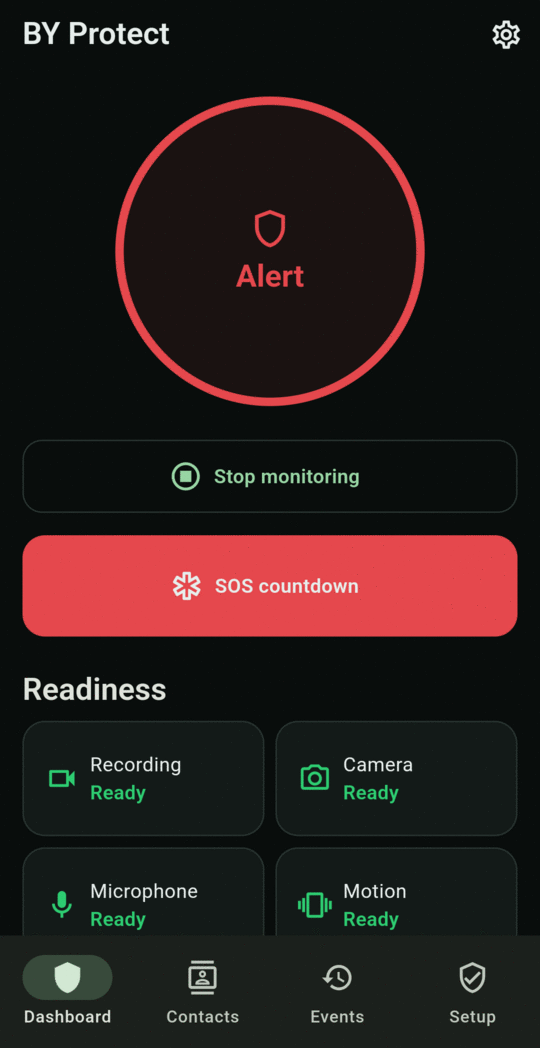
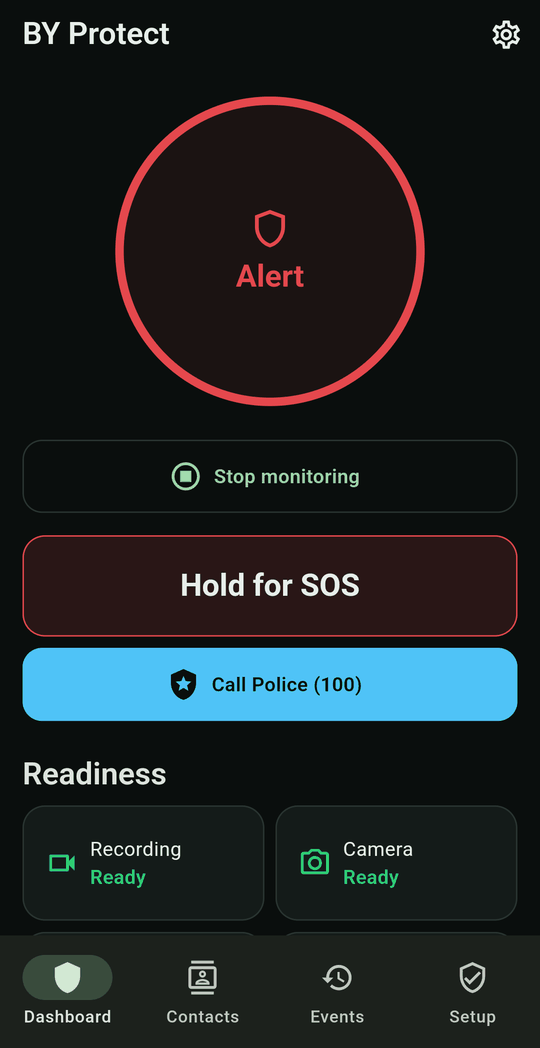
Emergency service contacts, new alert screenshots

Changed region(s): [[0.0296, 0.4885, 0.9778, 0.7634], [0.0889, 0.7939, 0.3556, 0.8855], [0.5333, 0.7939, 0.7704, 0.8855]]

diff --git a/docs/contacts.md b/docs/contacts.md
@@ -1,6 +1,6 @@
 # Emergency contacts
 
-Open **Contacts** from the bottom bar. Each card shows the name, number, preferred action and message preview. Disabled contacts are greyed out and marked **Disabled**.
+Open **Contacts** from the bottom bar. A contact is either a **person** you trust or an **emergency service** such as the police. Each card shows the name, number and what SOS does for them. Disabled contacts are greyed out and marked **Disabled**.
 
 <div class="screens" markdown>
 <figure markdown>
@@ -13,9 +13,9 @@ Open **Contacts** from the bottom bar. Each card shows the name, number, preferr
 </figure>
 </div>
 
-## Add a contact
+## Add a person
 
-Tap **Add contact**, fill in the form and tap **Save contact**. **Name** and **Phone number** are required.
+Tap **Add contact**, keep **Person** selected, fill in the form and tap **Save contact**. **Name** and **Phone number** are required.
 
 | Field | What it does |
 |---|---|
@@ -36,6 +36,43 @@ Tap **Add contact**, fill in the form and tap **Save contact**. **Name** and **P
 </figure>
 </div>
 
+## Add the police or another emergency service
+
+Tap **Add contact** and choose **Emergency service** at the top. Then pick the service:
+
+| Service | Number |
+|---|---|
+| **Police** | 100 |
+| **National emergency** | 112 |
+| **Women in distress** | 1091 |
+| **Women helpline** | 181 |
+| **Ambulance** | 108 |
+| **Local police station** | The station's own phone number, which you type in |
+
+The name and number fill in for you. Tap **Save contact**.
+
+<div class="screens" markdown>
+<figure markdown>
+![Adding the police as an emergency service](assets/screens/contacts-emergency-editor.png){ .screen }
+<figcaption>Emergency service</figcaption>
+</figure>
+<figure markdown>
+![Contact list with the police](assets/screens/contacts-with-police.png){ .screen }
+<figcaption>Police in the list</figcaption>
+</figure>
+</div>
+
+How emergency services are used:
+
+- **They are only called, never texted.** No SOS message or silent alert is ever sent to them, and there is no test message.
+- **They get the SOS call.** SOS makes one call. If an emergency service is enabled, that's the call, instead of your first person. If you add more than one, the highest in the list is used.
+- **You tap Call for 100, 112 and the other short numbers.** Android doesn't let apps call emergency numbers by themselves, so your phone's dialer opens with the number ready. A local police station's full number is called directly if [Call directly during SOS](settings.md#direct-emergency-actions) is on.
+- **Only when you start SOS yourself, unless you choose otherwise.** By default they're called when you start SOS with the button, the notification, the volume buttons or "help me". Turn on **Also call on automatic SOS** to call them for automatic alerts too. Automatic alerts can be false alarms, so think before you turn it on.
+- **A call button appears during SOS.** The Dashboard shows **Call Police (100)** and the SOS notification shows **Call Police**, in case the dialer didn't open by itself.
+
+!!! tip "Let SOS open the dialer from your bag"
+    When the app isn't on screen, Android only lets it open the dialer if you allow **Display over other apps**. Turn it on in **Setup**. See [Grant permissions](getting-started/permissions.md#optional-permissions).
+
 ## The ⋮ menu
 
 Edit
@@ -45,7 +82,7 @@ Disable for SOS / Enable for SOS
 :   Temporarily leave a contact out of alerts without deleting them.
 
 Send test message
-:   Opens your SMS app with this contact's message filled in. Nothing is sent until you press send there.
+:   Opens your SMS app with this contact's message filled in. Nothing is sent until you press send there. Not shown for emergency services.
 
 Remove
 :   Deletes the contact after you confirm.
@@ -53,5 +90,5 @@ Remove
 ## Tips
 
 - Add **at least two** people, in case one can't answer.
-- Only one call is placed per SOS. It goes to the **highest contact in the list** set to **Call** or **SMS and call**. New contacts are added to the bottom, so add the person you most want called first. Alternatively, set the contacts above them to **SMS**.
+- Only one call is placed per SOS. It goes to an enabled emergency service if you have one (see above), otherwise to the **highest person in the list** set to **Call** or **SMS and call**. New contacts are added to the bottom, so add the person you most want called first, or set the contacts above them to **SMS**.
 - Tell your contacts you've added them, and what a BY Protect alert looks like. Show them [What your contacts receive](alerts/messages.md).

diff --git a/docs/sos/during-sos.md b/docs/sos/during-sos.md
@@ -11,7 +11,7 @@ The moment SOS starts:
 4. The last few video clips (default **3** clips of 30 seconds) are **protected** so they aren't overwritten.
 5. Your location is captured.
 6. **Your contacts are texted.** See [What your contacts receive](../alerts/messages.md).
-7. After the **Delay before calling** (default **20 seconds**), the app calls your first callable contact.
+7. After the **Delay before calling** (default **20 seconds**), the app makes **one call**: to your emergency service if you added one, otherwise to your first callable contact. For 100, 112 and other short emergency numbers your dialer opens with the number ready, and you tap **Call**.
 8. The event is saved in Event History, with a list of the actions taken.
 
 <div class="screens" markdown>
@@ -25,6 +25,10 @@ The moment SOS starts:
 </figure>
 </div>
 
-BY Protect doesn't call the emergency services. If you can, call them yourself.
+## Calling the police
+
+If you added the police or another [emergency service](../contacts.md#add-the-police-or-another-emergency-service), a **Call Police (100)** button appears on the Dashboard during SOS, and **Call Police** in the SOS notification. Tap it to open the dialer with the number ready, then tap **Call**.
+
+Android doesn't let apps call emergency numbers by themselves, so you always tap **Call** for 100, 112 and similar numbers. If no emergency service is saved, BY Protect doesn't contact the emergency services; call them yourself if you can.
 
 While SOS is active, more SOS triggers are ignored and automatic detection pauses, so the alarm and vibration can't set off another alert.

diff --git a/docs/limitations.md b/docs/limitations.md
@@ -2,9 +2,17 @@
 
 BY Protect makes it faster and easier to get help, but it can't guarantee your safety. Please read this page before you rely on it.
 
-## It doesn't contact emergency services
+## Emergency services need you to tap Call
 
-BY Protect only texts and calls **the trusted contacts you add**. It never calls the police, an ambulance or any emergency number by itself. If you're in immediate danger, call your local emergency number yourself. Make sure your contacts know what to do when they receive an alert.
+BY Protect texts and calls **the contacts you add**. You can add the police or another [emergency service](contacts.md#add-the-police-or-another-emergency-service), but:
+
+- **Android doesn't let apps call 100, 112 or other emergency numbers by themselves.** During SOS your dialer opens with the number ready, and you have to tap **Call**.
+- **From your bag or with the app closed**, the dialer only opens if you allow **Display over other apps**. Otherwise use the **Call Police** button in the SOS notification.
+- **If the screen is locked** (for example by [Lock device on SOS](settings.md#lock-device-on-sos)), you may need to unlock it to place the call.
+- **Emergency services are never texted**, so they don't receive your location from the app. Tell them where you are on the call.
+- **Without an emergency service saved**, BY Protect doesn't contact the emergency services at all.
+
+If you're in immediate danger, call your local emergency number yourself. Make sure your contacts know what to do when they receive an alert.
 
 ## It only protects you while armed
 

diff --git a/docs/settings.md b/docs/settings.md
@@ -99,7 +99,7 @@ Built-in sounds: Alarm siren, Fire alarm, Fire truck siren, Fire truck siren (sh
 | Setting | Default | Options | What it does |
 |---|---|---|---|
 | **Send SMS automatically during SOS** | On | On / Off | Texts every trusted contact the moment SOS fires, without opening the SMS app. Needs SMS permission. If it's off or not granted, SOS opens the SMS app for you to send instead. **Silent alerts only work with this on.** |
-| **Call directly during SOS** | Off | On / Off | Places the call automatically instead of opening the dialer. Needs Phone permission. Only one contact can be called. |
+| **Call directly during SOS** | Off | On / Off | Places the call automatically instead of opening the dialer. Needs Phone permission. SOS makes one call: your emergency service if you added one, otherwise your first callable contact. Numbers like 100 and 112 always open the dialer for you to tap Call. |
 | **Delay before calling** | 20s | None, 10s, 20s, 30s, 60s, 120s | The alarm sounds for this long before the call is placed, because a live call quiets the alarm. |
 | **No movement after silent alert** | 1 min | Off, 30s, 1 min, 2 min, 5 min | After a silent alert is sent, staying still this long starts a full SOS, with a 15-second vibrating warning first. See [No-movement check](alerts/no-movement.md). |
 

diff --git a/docs/index.md b/docs/index.md
@@ -58,7 +58,7 @@ BY Protect is a personal safety app for Android. Once **armed**, it watches for 
 - **Nothing happens until you arm.** Monitoring, detection, recording and every SOS shortcut work only while BY Protect is armed.
 - **One cue is never enough.** A single sound or bump does not raise an alarm. The app combines several cues before acting, with two exceptions: an impact followed by stillness, and clearly threatening speech. See [How alerts work](alerts/levels.md).
 - **You can cancel a silent alert.** A Level 2 silent alert waits 15 seconds before it texts your contacts. Tap **Cancel** if you're safe.
-- **It alerts your contacts, not the emergency services.** In immediate danger, call your local emergency number. See [Limitations and safety notes](limitations.md).
+- **It alerts your contacts, and the police only if you add them.** Emergency services are only ever called, never texted, and for 100 or 112 you tap Call. In immediate danger, call your local emergency number. See [Limitations and safety notes](limitations.md).
 - **Re-arm after a restart.** Monitoring doesn't switch itself back on after the phone restarts.
 - **Your data stays on your phone.** Events, video and location are stored only on the phone. The only things that leave it are listed in [Privacy and your data](privacy.md).
 

diff --git a/docs/alerts/messages.md b/docs/alerts/messages.md
@@ -39,8 +39,9 @@ The alert is longer than a single text, so each contact usually receives it as *
 | **Call** | Call, if they are the first callable contact | SMS |
 | **SMS and call** | SMS, and a call if they are the first callable contact | SMS |
 
-- A silent alert texts **every** enabled contact and never calls.
-- A full SOS places **one** call, to the first enabled contact set to **Call** or **SMS and call**, after the **Delay before calling** (default 20 seconds), so the alarm can sound first.
+- A silent alert texts **every** enabled person and never calls.
+- **Emergency services such as the police are never texted**, not even by a silent alert. They only get the SOS call. See [Add the police](../contacts.md#add-the-police-or-another-emergency-service).
+- A full SOS places **one** call after the **Delay before calling** (default 20 seconds), so the alarm can sound first. It goes to an enabled emergency service if you have one, otherwise to the first enabled person set to **Call** or **SMS and call**.
 - Contacts with **Notify during SOS** turned off receive nothing.
 
 ## Without automatic SMS

diff --git a/docs/troubleshooting.md b/docs/troubleshooting.md
@@ -80,7 +80,11 @@ Yes. Detection, recording, SOS SMS and calls work without internet. Only the opt
 
 ## Will the app call the police?
 
-No. It only texts and calls your trusted contacts. See [Limitations and safety notes](limitations.md).
+Only if you add the police as an [emergency service contact](contacts.md#add-the-police-or-another-emergency-service). Even then, for 100, 112 and similar numbers your dialer opens with the number ready and **you tap Call**; Android doesn't let apps call emergency numbers by themselves. The police are never texted. See [Limitations and safety notes](limitations.md#emergency-services-need-you-to-tap-call).
+
+## The dialer didn't open during SOS
+
+Android blocks apps from opening other screens while they're in the background. Allow **Display over other apps** in **Setup**, or tap **Call Police** in the SOS notification or on the Dashboard. If the screen is locked, unlock it first.
 
 ## Can someone stop an SOS by taking my phone?
 

diff --git a/docs/alerts/silent-alert.md b/docs/alerts/silent-alert.md
@@ -8,6 +8,13 @@ When the app reaches **Level 2 · Silent Alert**, it gives you a chance to stop 
 - An amber **Silent alert sending in 15s** banner on the Dashboard that counts down to 0, with a **Cancel** button.
 - The notification text changes to **Silent alert sending — tap Cancel Alert to stop it**, with a live countdown timer.
 
+<div class="screens" markdown>
+<figure markdown>
+![Silent alert countdown banner on the Dashboard](../assets/screens/dashboard-silent-alert.png){ .screen }
+<figcaption>Silent alert countdown</figcaption>
+</figure>
+</div>
+
 !!! warning "Keep Vibration on"
     The vibration comes from **Settings → SOS actions → Vibration**, which is on by default. If you turn it off, a silent alert counts down with **no vibration at all**. With the screen off, you'd have no way of knowing it was happening.
 

diff --git a/docs/alerts/levels.md b/docs/alerts/levels.md
@@ -12,8 +12,8 @@ While armed, BY Protect detects individual **cues**: a face close by, someone ap
 
 A manual SOS (button, notification, volume buttons or voice) always goes straight to **Level 3**.
 
-!!! info "No level calls the emergency services"
-    Every level notifies only your own trusted contacts. BY Protect never calls the police or an ambulance by itself.
+!!! info "Emergency services and automatic alerts"
+    A silent alert never contacts emergency services. A full SOS calls the police or another [emergency service](../contacts.md#add-the-police-or-another-emergency-service) only if you added one, and for an automatic SOS only if you turned on **Also call on automatic SOS** for it. For short numbers such as 100 and 112 you tap **Call** in the dialer.
 
 ## What raises each level
 

diff --git a/docs/getting-started/permissions.md b/docs/getting-started/permissions.md
@@ -43,6 +43,9 @@ SMS
 Phone
 :   Lets SOS place a call by itself if you turn on [Call directly during SOS](../settings.md#direct-emergency-actions). Without it, SOS opens the dialer with the number filled in.
 
+Display over other apps
+:   Lets SOS open your phone's dialer for the police or another emergency number while the app isn't on screen, for example when the phone is in your bag. Android blocks this otherwise. Tapping **Allow** opens a system screen where you switch it on for BY Protect. Without it, use the **Call Police** button in the SOS notification.
+
 !!! warning "Grant SMS for hands-free alerts"
     A [silent alert](../alerts/silent-alert.md) can only reach your contacts through automatic SMS. If SMS permission is missing, silent alerts can't send anything.
 

diff --git a/docs/alerts/no-movement.md b/docs/alerts/no-movement.md
@@ -11,6 +11,13 @@ After a silent alert has been **sent**, BY Protect watches for the next **10 min
     - a red **No movement — SOS in 15s** banner on the Dashboard that counts down to 0, with an **I'm OK** button,
     - the notification text **No movement detected — tap I'm OK to stop SOS**, with an **I'm OK** button.
 
+<div class="screens" markdown>
+<figure markdown>
+![No-movement warning banner on the Dashboard](../assets/screens/dashboard-no-movement.png){ .screen }
+<figcaption>No-movement warning</figcaption>
+</figure>
+</div>
+
 !!! warning "Keep Vibration on"
     With **Vibration** turned off, the warning is only on screen and in the notification. You won't feel anything, so you could miss it and a full SOS would start.
 

diff --git a/docs/privacy.md b/docs/privacy.md
@@ -25,7 +25,7 @@ BY Protect has **no server or cloud account** of its own. These are stored only 
 | When | What | Where to |
 |---|---|---|
 | SOS or silent alert | An SMS with your location | Your trusted contacts |
-| Full SOS, if you set up calling | A phone call | Your first callable contact |
+| Full SOS, if you set up calling | A phone call (no message) | Your emergency service if you added one, otherwise your first callable contact |
 | You tap **share** on an event | The video clip and summary you choose to share | Wherever you send it |
 | While armed, **only if Speech language monitor is on** | Short **text** snippets of speech (never audio) | A cloud service that checks for bad language, distress and threats |
 
